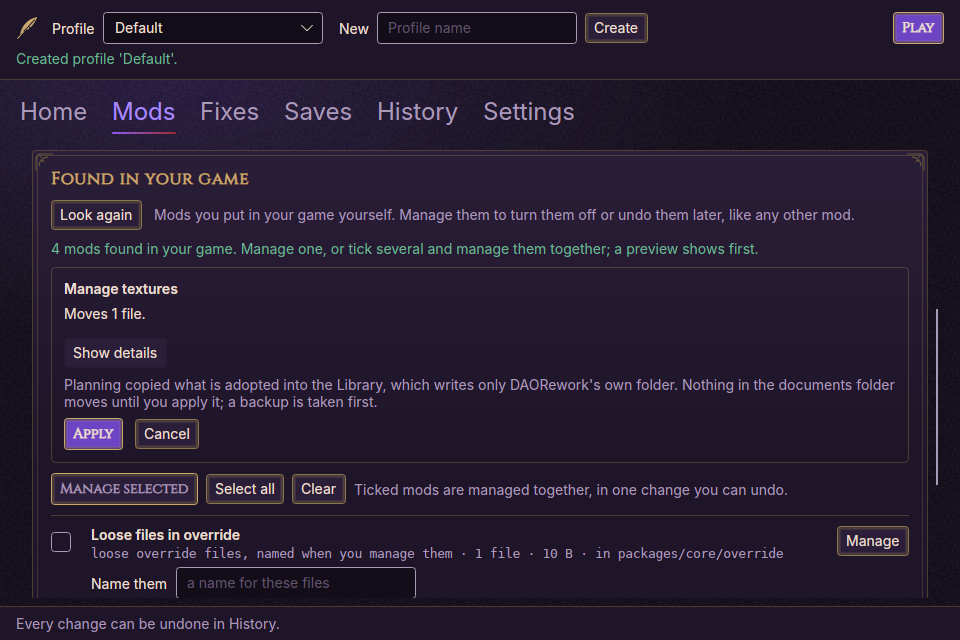
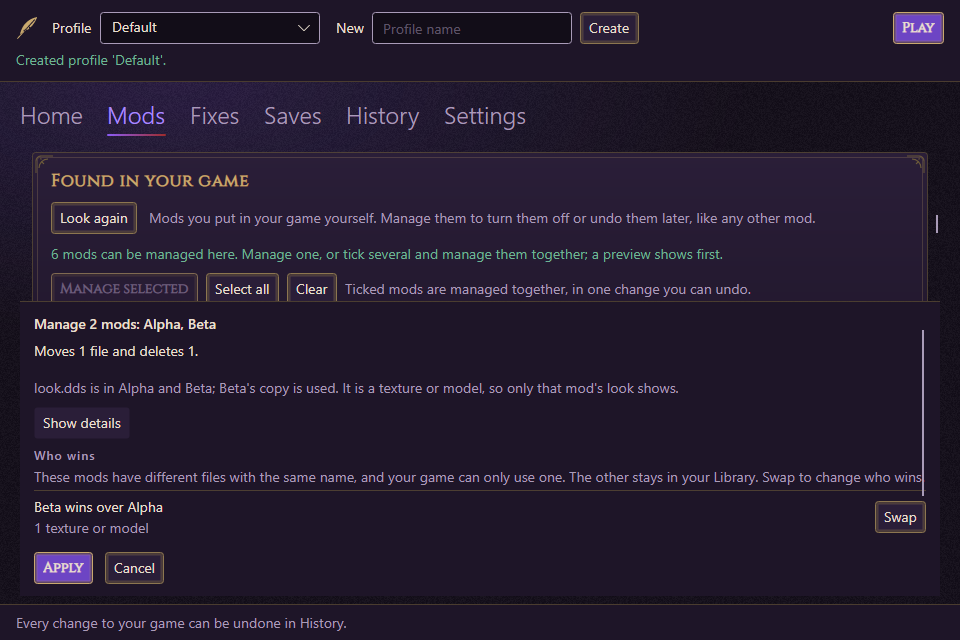
docs(readme): the features and pictures of 0.6.0 (P2.6-72)
The README ships in the zip. It gains Find the problem mod, What changed,
keeping one copy of each, backups that reuse the Library and conflicts
ranked by what could break quests. Its pictures showed the rows from before
0.6.0; they now come from today's window tests, mostly the real-scale
library, with two new ones for Combined files and Find the problem mod.

diff --git a/README.md b/README.md
@@ -33,18 +33,26 @@ publisher. A new publisher still builds up reputation with Windows SmartScreen, 
 
 ## What it does
 
-![Home after creating a profile: ready to play, the setup at a glance, and what is worth a look](docs/screenshots/readme/01-next-steps.png)
+![Home: the next step, the last change with Undo, and the setup at a glance](docs/screenshots/readme/01-next-steps.png)
 
 - **Takes over the mods you already installed by hand**, in `override` and `AddIns`, without reinstalling them.
   Official DLC is never touched.
 - **Moves your mods over from Vortex.** *Move from Vortex* takes you through it a step at a time: copy them, purge in
   Vortex, then turn them on in the same order. It has only been run on simulated Vortex records so far, and doesn't
   cover add-ins Vortex placed yet.
+- **Helps when something goes wrong.** *Find the problem mod* turns off half your mods each round; you play, say
+  whether the problem is still there, and in a few rounds one mod is left. Everything goes back at the end. *What
+  changed* shows what's new since your last game with other mods, and takes you back to them.
+- **Keeps one copy of each mod.** Adding a mod looks first: if it looks like something already in your game, you're
+  offered *Manage it* instead of a second copy. *Keep one of each* clears the copies a library builds up, into the
+  Recycle Bin.
 - **Picks up new downloads, if you turn it on.** When you come back from your browser, the mods you downloaded are
   offered on the Mods page. Nothing is added without a click.
 - **Installs mods safely.** Import a `.dazip`, `.zip`, `.7z` or `.rar` (or drop it on the window). Activating shows
-  exactly what will be copied, replaced or removed first, takes a backup, and can be rolled back.
-- **Shows conflicts.** For every file two mods share, whose copy the game uses, and lets you reorder them. Files
+  exactly what will be copied, replaced or removed first, takes a backup, and can be rolled back. Backups reuse the
+  files your Library already has, so they don't fill your drive.
+- **Shows conflicts,** most serious first: files that could break quests before those that only change how things
+  look. For every file two mods share, whose copy the game uses, and lets you reorder them. Files
   inside `.erf` archives are compared too, though there DAORework can't tell which copy the game uses.
 - **Checks every mod.** Programs inside a mod are named and never installed, your own antivirus scans every mod before
   it is kept, and a download that differs from the known official one is pointed out. Mods that run inside the game,
@@ -68,9 +76,9 @@ every write and proves each change still ends fully before or fully after. Both 
 install; GOG and EA App installs still need a real run ([#5](https://github.com/arastella625/DAORework/issues/5)).
 Phase 2.5 (release 0.3.0, the first public one) puts all of it in the window and adds adopting the mods you installed
 by hand, `.7z` and `.rar` import, the load order and its conflicts, and mod safety checks (programs never installed,
-your antivirus scans every mod, downloads compared with the known official ones). Phase 2.6 (releases 0.3.1 to 0.5.0)
-follows what real use shows: several mods at once, the six-tab window, combining hair and head mods, and moving from
-Vortex. 0.5.0 also carries the first parts of three later pieces of work: mods that run inside the game, Steam on
+your antivirus scans every mod, downloads compared with the known official ones). Phase 2.6 (releases 0.3.1 to 0.6.0)
+follows what real use shows: several mods at once, the six-tab window, combining hair and head mods, moving from
+Vortex, and in 0.6.0 finding the mod behind a problem and keeping one copy of each. 0.5.0 also carries the first parts of three later pieces of work: mods that run inside the game, Steam on
 Linux (there is no Linux download yet) and the file-format toolkit.
 
 ## How it is built
@@ -107,7 +115,7 @@ dotnet run --project src/DAORework.App
 
 Create a profile in the header: DAORework finds your install and documents folder, checks them, and **Home** says
 whether the game is ready to play, shows your add-ins, override mods and combined files at a glance, and lists what is
-worth a look. **Mods** is one page for every mod, with a switch for each, the ones found in your game, *Arrange* for
+worth a look. **Mods** is one page for every mod, with a switch for each, search and sort, the ones found in your game, *Arrange* for
 the load order and the files mods share, and *Move from Vortex* and *New downloads* when they apply; **Fixes** installs DXVK, and the 4 GB patch where the copy allows it;
 **Saves** backs up your saves; **History** lists every change, each with *Undo*; and **Settings** holds your theme or
 look, the game folders and Troubleshooting. Every change shows a preview before anything is written, and **Play**
@@ -117,11 +125,13 @@ freely; the CLI keeps its own words (`activate`, `adopt`, `rollback`).
 | | |
 |---|---|
 | ![The Library on the Mods tab](docs/screenshots/readme/02-library.png) | ![The plan shown before activating a mod](docs/screenshots/readme/03-activate-plan.png) |
-| **Mods:** add by button or drop; each mod's antivirus result and program files | **Turn on:** a preview first, nothing written until Apply |
+| **Mods:** one line each, with a switch, and whether it wins or loses the files it shares | **Turn on:** a preview first, what could break quests at the top, nothing written until Apply |
 | ![Arranging the load order and the files mods share](docs/screenshots/readme/04-load-order.png) | ![Managing a mod found in the game](docs/screenshots/readme/05-adopt-plan.png) |
-| **Arrange:** whose copy of a shared file wins, reordered through a preview | **Manage:** a mod you installed by hand, taken over without reinstalling |
+| **Arrange:** whose copy of a shared file wins; drag a mod, or send it to the top or bottom | **Manage:** mods you installed by hand, taken over without reinstalling, with *Swap* for who wins |
+| ![Combined files, most serious first](docs/screenshots/readme/10-combined-files.png) | ![A round of Find the problem mod](docs/screenshots/readme/11-problem-search.png) |
+| **Combined files:** what your mods share, what could break quests first | **Find the problem mod:** half off each round, until one is left |
 | ![The Fixes tab](docs/screenshots/readme/06-fixes.png) | ![Undoing a change in History](docs/screenshots/readme/07-rollback.png) |
-| **Fixes:** DXVK, the 4 GB patch on copies that allow it, and when Steam's Verify integrity undid one | **History:** any change undone, asked once more |
+| **Fixes:** DXVK, the 4 GB patch on copies that allow it, and when Steam's Verify integrity undid one | **History:** every change, each with *Undo to here* |
 | ![Four themes on the Settings tab](docs/screenshots/readme/08-themes.png) | ![A custom look with a picture](docs/screenshots/readme/09-custom-look.png) |
 | **Themes:** four dark themes | **Your looks:** your own accent and background picture |
 
